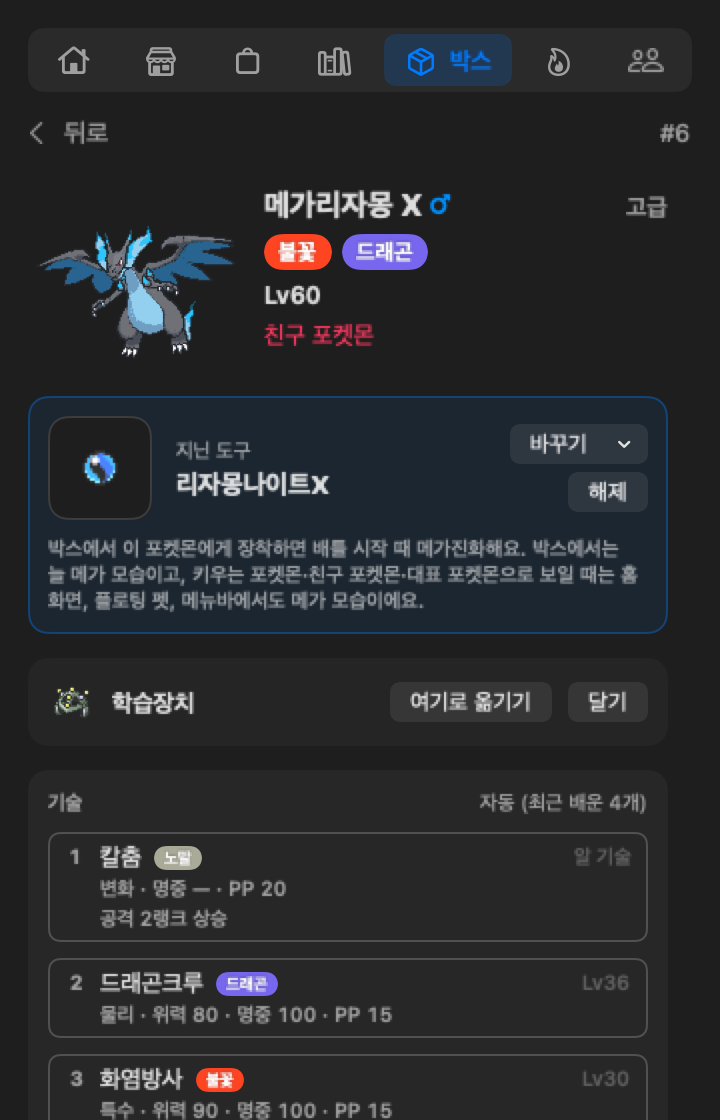
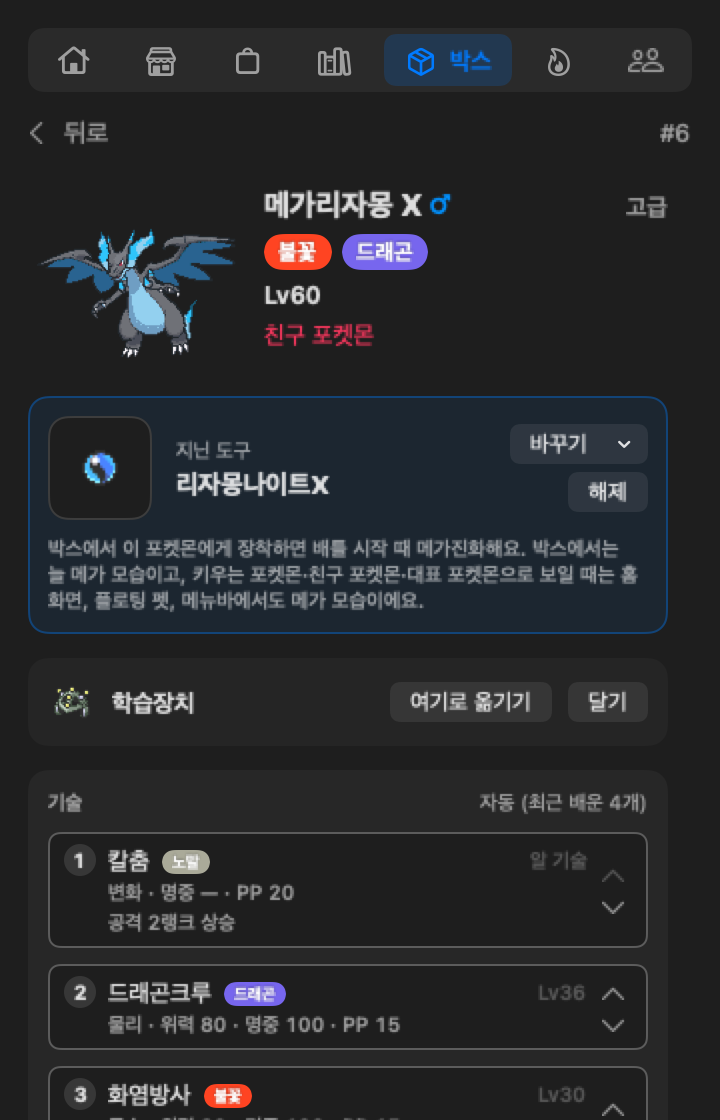
landing: mention move slot cards and reordering, and redraw the profile images

diff --git a/app.js b/app.js
@@ -170,7 +170,7 @@ const I18N = {
     "k7.d": "Equip a held item on a Pokémon’s Box page. The Shop and Bag group battle items by what they do, from attack boosts to weather. A Pokémon holding its Mega Stone Mega Evolves at the start of a battle, and Home, the floating pet and the menu bar show the Mega form.",
     "alt.held": "Native Shop and Bag sample with held items under Attack boost and Type boost",
     "k8.t": "Moves and TMs",
-    "k8.d": "A Pokémon’s Box page lists its four moves, and you can swap one for a level-up, egg or TM move, including status moves like Swords Dance. Buy a TM once in the Shop and every Pokémon that can learn it may use it.",
+    "k8.d": "A Pokémon’s Box page lists its four moves, and you can swap one for a level-up, egg or TM move, including status moves like Swords Dance. Buy a TM once in the Shop and every Pokémon that can learn it may use it. Each slot is its own card, and ▲/▼ swap it with its neighbor to set the order.",
     "alt.profile": "Native Box detail sample with a Pokémon's stats, held item, Exp. Share slot and moves",
     "k9.t": "Exp. Share",
     "k9.d": "Attach an Exp. Share to one Pokémon in the Box. It gets 50% of the EXP your current Pokémon or egg earns, so a graduate keeps growing while you raise the next one. When a new egg sends your partner to the Box, an Exp. Share from your Bag goes on it. Move here on a Box page moves a copy from another holder, even with an empty Bag, and a holder in the Box evolves there when the next step needs only EXP, a level, friends or a type.",
@@ -450,7 +450,7 @@ const I18N = {
     "k7.d": "지닌 도구는 포켓몬의 박스 페이지에서 달아요. 상점과 가방은 대결용 도구를 공격 강화부터 날씨까지 하는 일별로 묶어 보여 줘요. 메가스톤을 지닌 포켓몬은 대결이 시작될 때 메가진화하고, 홈·플로팅 펫·메뉴바에도 메가진화한 모습이 보여요.",
     "alt.held": "공격 강화·타입 강화 아래에 지닌 도구가 놓인 실제 상점·가방 UI 샘플",
     "k8.t": "기술과 기술머신",
-    "k8.d": "포켓몬의 박스 페이지에 기술 네 개가 나오고, 레벨업·알 기술이나 기술머신 기술로 하나씩 바꿀 수 있어요. 칼춤 같은 변화 기술도 돼요. 기술머신은 상점에서 한 번 사면 배울 수 있는 모든 포켓몬이 쓸 수 있어요.",
+    "k8.d": "포켓몬의 박스 페이지에 기술 네 개가 나오고, 레벨업·알 기술이나 기술머신 기술로 하나씩 바꿀 수 있어요. 칼춤 같은 변화 기술도 돼요. 기술머신은 상점에서 한 번 사면 배울 수 있는 모든 포켓몬이 쓸 수 있어요. 기술칸은 칸마다 카드로 나뉘고, ▲/▼로 옆 칸과 자리를 바꿔 순서를 정해요.",
     "alt.profile": "능력치·지닌 도구·학습장치 칸·기술을 보여 주는 실제 박스 상세 UI 샘플",
     "k9.t": "학습장치",
     "k9.d": "박스 포켓몬 하나에 학습장치를 달아 주세요. 그 포켓몬은 지금 키우는 포켓몬이나 알이 얻는 경험치의 50%를 함께 받아서, 다음 포켓몬을 키우는 동안 졸업한 포켓몬도 계속 자라요. 새 알로 파트너를 박스에 보내면 가방의 학습장치 하나가 그 포켓몬에 달려요. 박스 화면의 여기로 옮기기로 다른 포켓몬의 학습장치를 가져올 수 있고, 가방이 비어 있어도 돼요. 학습장치를 단 박스 포켓몬은 경험치·레벨·친구·타입만 필요한 단계라면 박스에서 진화해요.",
@@ -730,7 +730,7 @@ const I18N = {
     "k7.d": "もちものはポケモンのボックスページで持たせます。ショップとバッグでは、バトル用の道具を攻撃アップから天気まで、役割ごとにまとめて表示します。メガストーンを持ったポケモンはバトルの開始時にメガシンカし、ホーム・デスクトップペット・メニューバーでもメガシンカした姿になります。",
     "alt.held": "攻撃アップ・タイプ強化の見出しの下にもちものが並ぶ実際のショップ・バッグUIサンプル",
     "k8.t": "わざとわざマシン",
-    "k8.d": "ポケモンのボックスページには4つのわざが並び、レベルアップわざ・タマゴわざ・わざマシンのわざと1つずつ入れ替えられます。つるぎのまいのような変化わざも使えます。わざマシンはショップで一度買えば、覚えられるすべてのポケモンが使えます。",
+    "k8.d": "ポケモンのボックスページには4つのわざが並び、レベルアップわざ・タマゴわざ・わざマシンのわざと1つずつ入れ替えられます。つるぎのまいのような変化わざも使えます。わざマシンはショップで一度買えば、覚えられるすべてのポケモンが使えます。技の枠は一つずつカードに分かれ、▲/▼で隣の枠と入れ替えて順番を決められます。",
     "alt.profile": "能力値・もちもの・がくしゅうそうちの枠・技を示す実際のボックス詳細UIサンプル",
     "k9.t": "がくしゅうそうち",
     "k9.d": "ボックスのポケモン1匹に、がくしゅうそうちをつけます。そのポケモンは、いま育てているポケモンやタマゴが得る経験値の50%を一緒に受け取るので、次のポケモンを育てている間も卒業したポケモンが育ち続けます。新しいタマゴでパートナーをボックスに預けると、バッグのがくしゅうそうちを1つそのポケモンにつけます。ボックス画面の「ここに移す」で、ほかのポケモンのがくしゅうそうちを付け替えられます。バッグが空でもかまいません。がくしゅうそうちをつけたボックスのポケモンは、経験値・レベル・フレンド・タイプだけで進める段階ならボックスで進化します。",

diff --git a/index.html b/index.html
@@ -101,7 +101,7 @@ try { var savedTheme=localStorage.getItem('ptb-theme'); if(savedTheme==='dark'||
 <article class="fork-card"><h3 data-i18n="k6.t">The Box</h3><p data-i18n="k6.d">The Box tab holds every Pokémon you own: the one you raise, your friends and your graduates. Search, filter by Shiny or held item, and sort. A new egg sends your current Pokémon here instead of releasing it, and you can pick a graduate to raise again.</p><figure><img src="assets/screenshot-collection-box.png" data-i18n-image="screenshot-collection-box" width="720" height="840" loading="lazy" data-i18n-alt="alt.box" alt="Native Box tab sample with five Pokémon, their levels, marks and held items"><figcaption data-i18n="native.current">Native UI renders · sample states</figcaption></figure></article>
 <article class="fork-card"><h3 data-i18n="k15.t">See what comes next</h3><p data-i18n="k15.d">A Pokédex page shows how the species evolves next and what the app asks for, like Munchlax’s 30 pets to become Snorlax. When the Pokémon you raise is on that path, the card shows its progress. On Home, tap the next form to open its page.</p><figure><img src="assets/screenshot-dex-next-evolution.png" data-i18n-image="screenshot-dex-next-evolution" width="720" height="1020" loading="lazy" data-i18n-alt="alt.nextEvo" alt="Native Pokédex page sample for Snorlax with the 30-pet condition at 3/30"><figcaption data-i18n="native.current">Native UI renders · sample states</figcaption></figure></article>
 <article class="fork-card"><h3 data-i18n="k7.t">Held items and Mega Evolution</h3><p data-i18n="k7.d">Equip a held item on a Pokémon’s Box page. The Shop and Bag group battle items by what they do, from attack boosts to weather. A Pokémon holding its Mega Stone Mega Evolves at the start of a battle, and Home, the floating pet and the menu bar show the Mega form.</p><figure class="crop"><img src="assets/screenshot-held-items.png" data-i18n-image="screenshot-held-items" width="720" height="1638" loading="lazy" data-i18n-alt="alt.held" alt="Native Shop and Bag sample with held items under Attack boost and Type boost"><figcaption data-i18n="native.current">Native UI renders · sample states</figcaption></figure></article>
-<article class="fork-card"><h3 data-i18n="k8.t">Moves and TMs</h3><p data-i18n="k8.d">A Pokémon’s Box page lists its four moves, and you can swap one for a level-up, egg or TM move, including status moves like Swords Dance. Buy a TM once in the Shop and every Pokémon that can learn it may use it.</p><figure class="crop"><img src="assets/screenshot-pokemon-profile.png" data-i18n-image="screenshot-pokemon-profile" width="720" height="1120" loading="lazy" data-i18n-alt="alt.profile" alt="Native Box detail sample with a Pokémon's stats, held item, Exp. Share slot and moves"><figcaption data-i18n="native.current">Native UI renders · sample states</figcaption></figure></article>
+<article class="fork-card"><h3 data-i18n="k8.t">Moves and TMs</h3><p data-i18n="k8.d">A Pokémon’s Box page lists its four moves, and you can swap one for a level-up, egg or TM move, including status moves like Swords Dance. Buy a TM once in the Shop and every Pokémon that can learn it may use it. Each slot is its own card, and ▲/▼ swap it with its neighbor to set the order.</p><figure class="crop"><img src="assets/screenshot-pokemon-profile.png" data-i18n-image="screenshot-pokemon-profile" width="720" height="1120" loading="lazy" data-i18n-alt="alt.profile" alt="Native Box detail sample with a Pokémon's stats, held item, Exp. Share slot and moves"><figcaption data-i18n="native.current">Native UI renders · sample states</figcaption></figure></article>
 <article class="fork-card"><h3 data-i18n="k9.t">Exp. Share</h3><p data-i18n="k9.d">Attach an Exp. Share to one Pokémon in the Box. It gets 50% of the EXP your current Pokémon or egg earns, so a graduate keeps growing while you raise the next one. When a new egg sends your partner to the Box, an Exp. Share from your Bag goes on it. Move here on a Box page moves a copy from another holder, even with an empty Bag, and a holder in the Box evolves there when the next step needs only EXP, a level, friends or a type.</p><figure><img src="assets/screenshot-exp-share.png" data-i18n-image="screenshot-exp-share" width="720" height="760" loading="lazy" data-i18n-alt="alt.expShare" alt="Native Box detail sample for a stored Bulbasaur with Move here and Attach for the Exp. Share"><figcaption data-i18n="native.current">Native UI renders · sample states</figcaption></figure></article>
 <article class="fork-card"><h3 data-i18n="k11.t">Friends beside your partner</h3><p data-i18n="k11.d">Pick up to two friends from your graduates and the Pokémon waiting in the Box. They stand next to your partner on Home and on the floating pet in their current form, and petting a friend pops a heart over it. When a new egg or a scout sends your partner to the Box while a slot is free, it joins as a friend.</p><figure><img src="assets/screenshot-stored-friends.png" data-i18n-image="screenshot-stored-friends" width="720" height="650" loading="lazy" data-i18n-alt="alt.storedFriends" alt="Native friend picker sample offering a stored Bulbasaur, and Home with that Bulbasaur walking beside Charizard"><figcaption data-i18n="native.current">Native UI renders · sample states</figcaption></figure></article>
 <article class="fork-card"><h3 data-i18n="k10.t">Trades and the Linking Cord</h3><p data-i18n="k10.d">Trade graduated Pokémon with a linked coworker from the Friends tab; the other side accepts in Slack. Trade evolutions such as Haunter or Kadabra wait for a trade, or for a Linking Cord from the Shop. Some also need a held item first, like Onix with a Metal Coat.</p></article>
